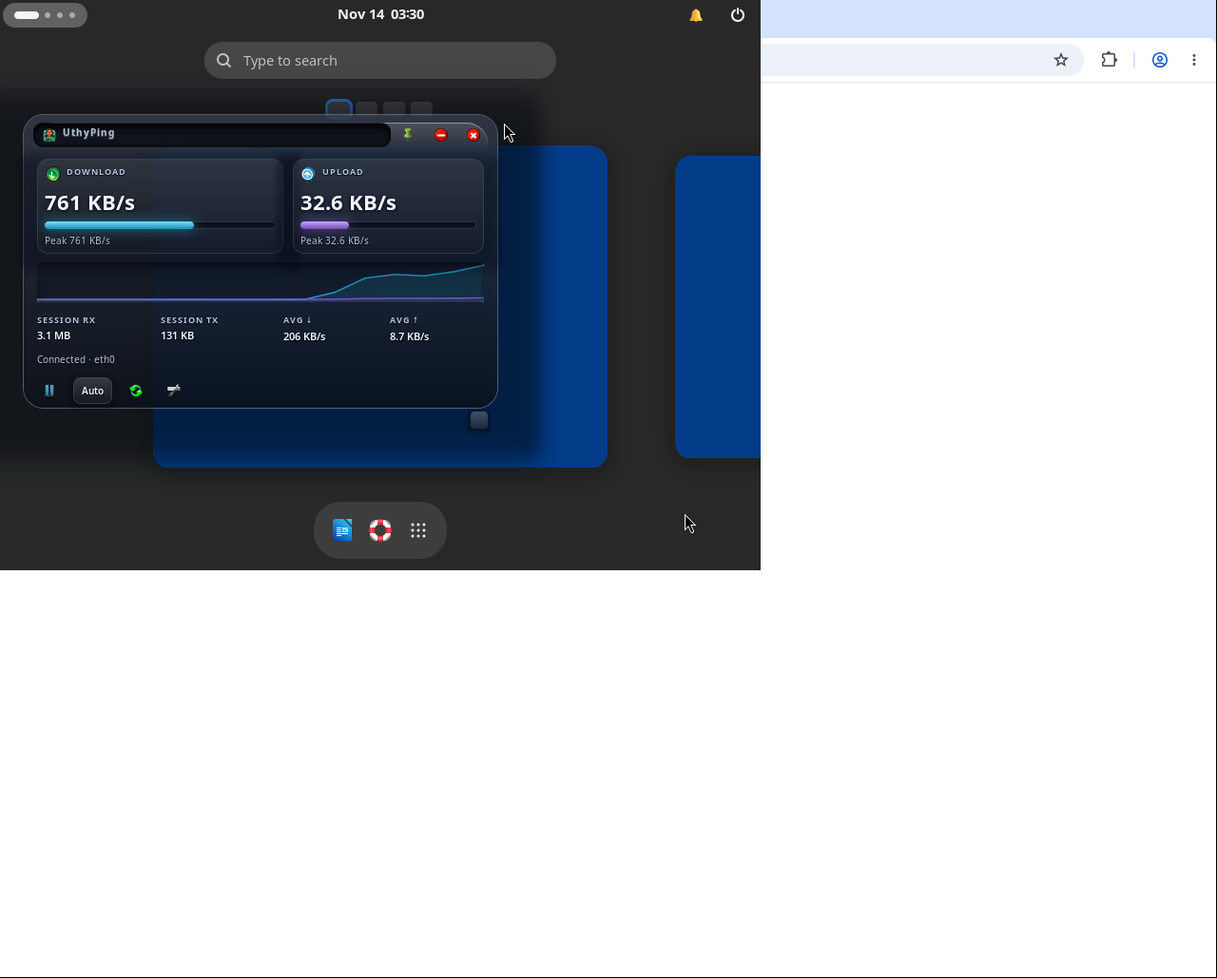
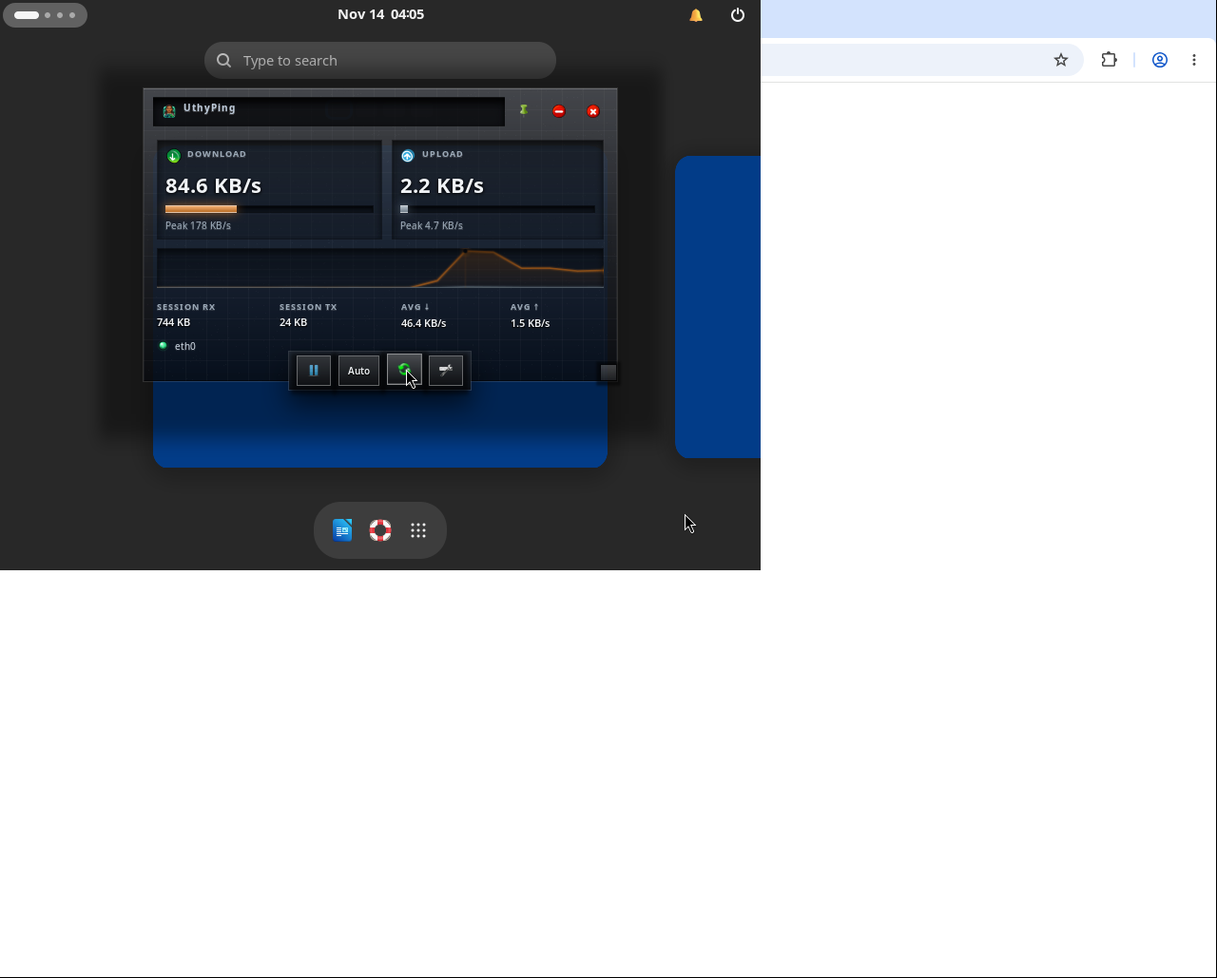
Document the square orange design and refresh the captures
Record the palette, the depth order, the layer stack, the one-shadow
discipline and the two St facts the redesign turned up: St has no backdrop
sampling at all, so the glass implies thickness instead of blurring anything,
and Cairo gradient stops in GJS are addColorStopRGBA rather than addColorStop.

The captures are refreshed from a nested GNOME Shell 46 session and now include
the floating tray at rest, hovered and pressed, the connection LED, the
preferences window, and the focus ring on the card, on a title-strip control and
on a tray plate. The measured contrast ratios and the reduced-motion result are
recorded in the accessibility notes.

Changed region(s): [[0.0, 0.0622, 0.5312, 0.4976]]

diff --git a/docs/UI_SPECIFICATION.md b/docs/UI_SPECIFICATION.md
@@ -2,87 +2,128 @@
 
 ## Visual direction
 
-A compact native GNOME Shell card in clear liquid glass with skeuomorphic depth: a dark translucent blue slab lit from the upper left, a fine cool rim, a sheen along the top edge, soft cast shadows, raised glass tiles, engraved grooves, and short spring motion. Cyan keeps the download identity and violet the upload identity. The theme is original and uses no copied assets.
+A square liquid-glass slab with skeuomorphic depth: a dark translucent surface lit from the upper left, a fine silver rim, a sheen along the top edge, a faint grid and grain inside the glass, recessed metric wells, engraved secondary labels, raised control plates and a floating tray that hovers below the slab. One glowing orange accent carries anything focused, active or measured; everything else is near-black, off-white and silver. Corners are square throughout — the radius is part of the material, not a setting — and the only round object in the interface is the connection LED, because a dot has to be a dot.
 
-The material model is adapted from the QuickLiquid liquid-glass description ([quickliquid.vercel.app](https://quickliquid.vercel.app/)): one physical definition of tint, sheen, rim light, refraction edge and spring motion, applied consistently to every surface. GNOME Shell's St toolkit has no DOM, WebGL or backdrop blur, so the model is expressed with what St actually renders — vertical gradients for tint and sheen, a light border for the refraction edge, inset shadows for embossing, and a cool rim highlight for the top specular.
+The material model is adapted from the QuickLiquid liquid-glass description ([quickliquid.vercel.app](https://quickliquid.vercel.app/)): one physical definition of tint, sheen, rim light, refraction edge and spring motion, applied consistently to every surface. GNOME Shell's St toolkit has no DOM, no WebGL and, in the 45–50 series, **no backdrop sampling**: there is no `backdrop-filter`, no `filter`, and no way for an actor to read or blur what is painted behind it. Thickness is therefore implied rather than performed — a dark tint, a vertical sheen, a grain layer, a 1 px bright rim and a wide cast shadow together read as a slab of glass, and the documentation says so rather than claiming a blur that never happens.
 
 Tokens:
 
 | Purpose | Default |
 |---|---|
-| Glass tint (base) | `rgb(18, 28, 46)` at the user's opacity |
-| Glass gradient | `rgb(51, 61, 76)` → `rgb(10, 16, 26)` derived from the tint |
-| Rim / refraction edge | `rgba(206, 228, 255, 0.34)` |
-| Sheen (title strip) | `rgba(255, 255, 255, 0.14)` → transparent |
-| Cast shadow | `rgba(3, 8, 18, 0.58)` at `0 18px 42px` |
-| Download | `#27C9FF` |
-| Upload | `#A56BFF` |
-| Primary text | `#F5F8FF` |
-| Secondary text | `#B7C5DA` |
-| Focus ring | `rgba(126, 226, 255, 0.95)` + `rgba(39, 201, 255, 0.55)` halo |
-| Warning/error | `#FFB454` / `#FF647C` |
+| Glass tint (base) | `rgb(14, 18, 26)` at the user's opacity |
+| Glass gradient | `rgb(63, 67, 73)` → `rgb(8, 10, 15)` derived from the tint |
+| Rim / refraction edge | `rgba(255, 255, 255, 0.12)` |
+| Specular rim (backdrop) | `rgba(255, 255, 255, 0.20)` top, `rgba(0, 0, 0, 0.45)` bottom |
+| Grid / grain | `rgba(255, 255, 255, 0.030)` at a 22 px pitch |
+| Cast shadow | `rgba(0, 0, 0, 0.40)` at `0 20px 40px` |
+| Accent (focus, active, metrics) | `#FF8A1F`, lit `#FFC078`, deep `#A94A05` |
+| Download | `#FF8A1F` |
+| Upload | `#93A6B8` |
+| Primary text | `#F2F5F8` |
+| Secondary text (engraved) | `#9DABB9` |
+| LED — connected | `#2FE08A` |
+| LED — initialising / paused | `#FFC24D` |
+| LED — disconnected / error | `#FF6B5A` |
+| LED — stopped | `#8A93A0` |
 
-## Material system
+## Depth order
 
-Depth is layered across the card, its title strip and every sub-surface, because St honours exactly one `box-shadow` per declaration and warns about the rest:
+The z-axis is explicit: the desktop, then the slab, then the wells pressed into it, then the tray hovering above it.
 
-| Surface | Its single shadow spends on | Depth cue |
+| Layer | Actor | What it carries |
 |---|---|---|
-| Card | Cast shadow | Lifts the slab off the desktop |
-| Title strip | Inset top highlight | The top edge catching the key light |
-| Gauge tile | Outer shadow | Raised glass tile over the card |
-| Meter groove | Inset shadow | Engraved channel |
-| Meter fill | Accent bloom | Liquid glow |
-| Graph window | Inset shadow | Engraved viewport |
-| Control bead | Outer shadow, inverted to inset when pressed | Beads press into the surface |
-| Statistics and controls rows | Inset top line | Hairline dividers |
+| 1. Desktop | — | Casts the slab's shadow |
+| 2. Slab | card (`Clutter.BinLayout`) | Tint, border, cast shadow, focus ring |
+| 3. Inner surface | `glassBackdrop.js` | Sheen, grid, grain, specular rim |
+| 4. Content | `uthy-card-stack` column | Title strip, readings, wells, chart |
+| 5. Grip and tray | anchored bottom layers | Resize grip, floating control tray |
 
-Inline styles win over the stylesheet in St, so the card's tint, radius, font size and keyboard focus ring are produced in `src/ui/glassMaterial.js`, and the title strip's sheen is applied there as well.
+St honours exactly one `box-shadow` per declaration and warns about the rest, so each surface spends its single shadow on the cue that matters most for it. Where a recess needs two inset cues — dark at the top left, lit at the bottom right — the second one is a border, not a shadow:
 
-Layout metrics — paddings, spacings, minimum sizes and font sizes — are unchanged from the previous stylesheet. Paddings are reduced by one pixel wherever a 1px rim border was added, so every control keeps its original footprint.
+| Surface | Its single shadow spends on | Second cue |
+|---|---|---|
+| Card | Cast shadow | 1 px silver rim, focus ring in orange |
+| Backdrop | — (Cairo) | Sheen, grid, grain, top and bottom rim lines |
+| Metric well | Inset dark press | Lit lower and right border |
+| Meter groove | Inset dark press | Lit lower border |
+| Meter fill | Accent bloom | Lit top border, dark bottom border |
+| Chart window | Inset dark press | Lit lower border, grid inside |
+| Control plate (rest) | Contact shadow | Lit top border, dark bottom border |
+| Control plate (pressed) | Inset dark press | Inverted borders |
+| Floating tray | Wide cast shadow | Lit top border, dark bottom border |
+
+Inline styles win over the stylesheet in St, so the card's tint, cast shadow and focus ring, the metric wells, the meter groove and fill, and the tray's slab are produced in `src/ui/glassMaterial.js`. The grid, the grain and the rim lights cannot be expressed in CSS at all — St has no repeating backgrounds — so they are painted by `src/ui/glassBackdrop.js` on a single `St.DrawingArea` that covers the card and repaints only when its size changes.
+
+## Typography
+
+Every numeric readout carries `font-feature-settings: "tnum"`, so a changing digit never reflows the label beside it: the mini rates, the gauge values and the statistic values all use tabular figures. Secondary labels — `DOWNLOAD`, `UPLOAD`, `SESSION RX`, `Peak` — are engraved: a dim `#9DABB9` with a single light `text-shadow` below the glyph, so they read as cut into the glass rather than printed on it.
 
 ## Iconography
 
-`icons/` holds the supplied skeuomorphic control set — brand, notification, pin, pinned pin, minimize, expand, close, pause, play, refresh, settings, share, download and upload — prepared by `scripts/prepare-icons.py` from the sources in `assets/icons-source/`. Every icon is a physical object with its own bevel, highlight and contact shadow, so nothing else draws depth for it: the control buttons have a transparent background, no border and no shadow, because a frame around a physical object only doubles every edge.
+`icons/` holds the supplied skeuomorphic control set — brand, notification, pin, pinned pin, minimize, expand, close, pause, play, refresh, settings, share, download and upload — prepared by `scripts/prepare-icons.py` from the sources in `assets/icons-source/`. Every icon is a physical object with its own bevel, highlight and contact shadow.
 
 Two of the sources (`Close.svg`, `minus.svg`) still carried the flat near-white plate and the hairline border of the bitmap they were traced from. The preparation script floods that plate away from the canvas border, drops any remaining component that spans the canvas while hugging its edge, trims each icon to its artwork, and scales every icon so the artwork fills the same share of its box. The shipped files are 96 px PNGs loaded through `Gio.FileIcon`, which renders them in St without theme dependencies; if an asset is missing the factory falls back to the matching symbolic icon from the user's theme.
 
-Two St behaviours shape the set. `St.Icon` defaults to symbolic style, which would flatten the artwork into a monochrome mask, so the bundled icons request `-st-icon-style: regular` while the theme fallback stays symbolic and is tinted by CSS colour. And St paints an outer `box-shadow` as a filled block when the actor has no background while ignoring an inset one, so the focus ring on a bare control is a 2 px border, reserved transparent in the resting state and coloured only on focus, which also keeps the control from resizing when it is focused.
+The title-strip buttons draw **no** frame: the icons are objects in their own right, so a plate around them would double every edge. The four tray controls are the opposite case — the design asks for physical buttons, so each one is a raised square plate with a silver rim and a contact shadow, and the icon sits on top of it. Two St behaviours shape the set. `St.Icon` defaults to symbolic style, which would flatten the artwork into a monochrome mask, so the bundled icons request `-st-icon-style: regular` while the theme fallback stays symbolic and is tinted by CSS colour. And St paints an outer `box-shadow` as a filled block when the actor has no background while ignoring an inset one, so the focus ring on a bare control is a 2 px border, reserved transparent in the resting state and coloured only on focus, which also keeps the control from resizing when it is focused.
 
 The download and upload marks are the bundled metric icons: 16 px in the mini rows and 18 px in the gauge headings. The statistics captions keep the typographic arrows (↓ ↑), which are embossed with `text-shadow`, and the widgets fall back to those arrows wherever the icon factory is not supplied.
 
 ## Title strip
 
-The name plate is the drag handle itself: a dark floor (`rgba(2, 5, 12, 0.72)`), one inset shadow (`inset 0 5px 10px`) for the press, a dark upper lip and a lit lower lip. The lettering is engraved — `rgba(180, 201, 226, 0.96)` with a light `text-shadow` under each glyph — so it reads as cut into the surface; the captured session measures 10.4:1 between the glyphs and the floor. The tool name is **UthyPing**; the extension UUID stays `uthy-speed-glass@uthy` so existing installations and saved settings keep working.
+The name plate is the drag handle itself: a dark floor (`rgba(3, 5, 9, 0.74)`), one inset shadow (`inset 0 5px 10px`) for the press, a dark upper lip and a lit lower lip, all square. The lettering is engraved — `rgba(198, 212, 228, 0.96)` with a light `text-shadow` under each glyph — so it reads as cut into the surface; the captured session measures 11.5:1 between the glyphs and the floor. The tool name is **UthyPing**; the extension UUID stays `uthy-speed-glass@uthy` so existing installations and saved settings keep working.
 
 ## Mini
 
 ```text
 ┌────────────────────────────────────────┐
 │ ◈ UthyPing            pin  ▾  ×        │
-│ ↓  -- MB/s             ↑  -- MB/s       │
-│   DOWNLOAD               UPLOAD          │
-│ ▂▄▆█▇▅▃             ▂▃▅█▆▄▂             │
-│ Initializing · interface                 │
+│ ◉ 174 KB/s             ◉ 7.1 KB/s      │
+│   DOWNLOAD               UPLOAD         │
+│ ▁▂▄▆█▇▅▃ live chart, orange over silver │
+│ ● eth0                                  │
 └────────────────────────────────────────┘
 ```
 
-Both rates remain visible simultaneously. Graphs are optional and the connection line only reports observed status/interface values. The title strip is the move handle. Compact mode keeps the same information with more room for history.
+Both rates remain visible simultaneously. Graphs are optional. The connection line is one glowing LED beside the interface name: the state is carried by the LED colour (and by the accessible name), not by a sentence, so the line stays short at every width. The title strip is the move handle. Compact mode keeps the same information with more room for history.
 
 ## Expanded
 
 ```text
 ┌──────────────────────────────────────────────────────────┐
 │ ◈ UthyPing               pin  minimize  ▾  ×              │
-│ DOWNLOAD                               UPLOAD              │
-│ ↓  -- MB/s                              ↑  -- MB/s         │
-│ ━━━━━━━━━━━━━━━                         ━━━━━━━━━━━━━━━    │
-│ ───── cyan history / violet history ────────────────────   │
-│ SESSION RX  —  SESSION TX  —  AVG ↓ —  AVG ↑ —            │
-│ Connected · interface · Ping (only when available)         │
-│ Pause   Interface   Reset statistics   Preferences          │
-└──────────────────────────────────────────────────────────┘
+│ ┌─ recessed well ────────┐ ┌─ recessed well ───────────┐ │
+│ │ ◉ DOWNLOAD             │ │ ◉ UPLOAD                  │ │
+│ │ 122 KB/s               │ │ 5.0 KB/s                  │ │
+│ │ ▓▓▓▓▓▓▓▓░░░ groove     │ │ ▓░░░░░░░░░░ groove        │ │
+│ │ Peak 123 KB/s          │ │ Peak 5.0 KB/s             │ │
+│ └────────────────────────┘ └───────────────────────────┘ │
+│ ┌─ engraved chart window ─────────────────────────────┐  │
+│ │ grid + orange area + silver area + peak + live head │  │
+│ └─────────────────────────────────────────────────────┘  │
+│ SESSION RX  —   SESSION TX  —   AVG ↓ —   AVG ↑ —        │
+│ ● eth0                                                   │
+│        ╔═════════════════════════════════════╗           │
+│        ║ ⏸   Auto   ⟳   ⚙                   ║ ← floats   │
+└────────╚═════════════════════════════════════╝───────────┘
 ```
+
+The four controls left the column: they sit on a separate slab that hovers ten pixels below the panel's bottom edge, with a wide cast shadow, so the stack reads as desktop → panel → controls. The column reserves their strip so nothing is hidden behind them.
+
+## Live chart
+
+The chart is a dual-layer area sparkline drawn in Cairo (`src/ui/historyGraph.js`), not a flat line:
+
+- a faint light-grey grid and an engraved baseline give the plot a surface;
+- each wave is filled with a vertical gradient that fades downward, so download and upload overlap without muddying;
+- each wave is stroked twice — a 4 px translucent glow under a 1.6 px lit line;
+- the tallest download sample is marked with a halo, a leader line and a bright dot;
+- the newest sample carries a glowing live head on the right edge.
+
+With no samples yet the grid alone is drawn, which reads as an empty instrument rather than a broken line. A 0.01 MB/s floor keeps a slow link's trace visible where a 0.1 MB/s floor flattened it.
+
+## Connection LED
+
+The connection state is a single 3D dot (`src/ui/ledIndicator.js`): an outer bloom, a dome lit from the upper left, an inner shadow along its lower edge, a specular highlight and a dark contact ring. The colour carries the state; the accessible name repeats it in words. The dome is redrawn only when the state changes, and it pulses once on a change unless reduced motion is on.
 
 ## Motion
 
@@ -90,34 +131,38 @@ Motion lives in `src/ui/motion.js` and only ever animates transform, opacity or 
 
 | Gesture | Behaviour | Duration |
 |---|---|---|
-| Press | Squash to 0.94 | 110 ms, ease-out cubic |
-| Release | Overshoot back to rest | 240 ms, ease-out back |
-| Hover | Lift to 1.06 | 150 ms, ease-out cubic |
+| Bare icon: press | Squash to 0.94 | 110 ms, ease-out cubic |
+| Bare icon: release | Overshoot back to rest | 240 ms, ease-out back |
+| Bare icon: hover | Lift to 1.06 | 150 ms, ease-out cubic |
+| Raised control: hover | Travel to −2 px and grow to 1.02 | 150 ms, ease-out cubic |
+| Raised control: press | Travel to +1 px and squash to 0.97 | 110 ms, ease-out cubic |
+| Raised control: release | Settle to 0 px with overshoot | 240 ms, ease-out back |
 | Meter update | Spring to the new fill width | 220 ms |
 | Fresh reading | Single 1.03 pulse | 180 ms, ease-out back |
+| LED state change | Single 1.18 pulse | 200 ms |
 | Brand mark | Looping opacity and scale breathing | 2600 ms, auto-reversed |
 
-Breathing is implemented with looping `Clutter.PropertyTransition`s and stops when the card is hidden. With the Reduce motion preference enabled, every duration collapses, idle loops stop, and values change instantly.
+Breathing is implemented with looping `Clutter.PropertyTransition`s and stops when the card is hidden. With the Reduce motion preference enabled, every duration collapses, idle loops stop, and values change instantly — verified by measuring the icon's position while hovering, which moves 1.71 px with motion on and 0.00 px with it off.
 
 ## Interaction model
 
-- **Expand:** reveals gauges, graph, statistics, interface cycling, pause/resume, reset, and preferences.
+- **Expand:** reveals gauges, chart, statistics, interface cycling, pause/resume, reset, and preferences.
 - **Minimize:** returns to the mini card while retaining both readings; it does not stop sampling.
 - **Close:** hides the card but leaves the panel indicator and monitoring service available; the panel menu can show it again.
 - **Pin:** locks title-strip movement; it does not stop monitoring or disable resize.
-- **Move:** drag the title strip; position is clamped to a monitor and persisted on release.
-- **Resize:** drag the bottom-right affordance; logical width/height are clamped and persisted.
+- **Move:** drag the title strip; position is clamped to a monitor — with a bottom inset for the tray's overhang — and persisted on release.
+- **Resize:** drag the bottom-right grip; logical width/height are clamped and persisted.
 - **Pause/resume:** removes/restarts the sampling timer; resume establishes a fresh baseline.
-- **Interface:** expanded button cycles through automatic and currently observed interfaces; preferences provide direct selection.
+- **Interface:** the tray's labelled button cycles through automatic and currently observed interfaces; preferences provide direct selection.
 - **Reset:** clears session totals, peaks, averages, and visible history without resetting kernel counters.
-- **Ping:** preference enables a local default-gateway measurement; ping remains absent from the status line unless a result exists.
+- **Ping:** preference enables a local default-gateway measurement; ping appears in the status line only when a result exists.
 
 ## Accessibility and responsive behavior
 
-Buttons have accessible names, are keyboard focusable, and receive a visible cyan focus ring drawn outside the border box, so focusing never shifts layout. Text is embossed with a subtle shadow to stay high contrast over both the light and dark parts of the glass, and contrast ratios of the primary and secondary text against the darkest and lightest glass tones were checked. The meters label direction and value in text, not colour alone. Reduced-motion removes interpolation transitions. Geometry is expressed in logical pixels, bounded by the selected monitor, and re-clamped when monitors change.
+Buttons have accessible names, are keyboard focusable, and receive a visible **orange** focus ring. The card's ring is drawn outside the border box by the material, so focusing never shifts layout; the bare controls use a reserved transparent border that is coloured on focus; the raised plates turn their rim orange. The LED, the rates and the status row all carry accessible names, and the meters label direction and value in text rather than by colour alone. Measured in the captured session: metric value 13.2:1, `Peak` label 6.7:1, status text 9.9:1, statistic value 16.2:1, the orange meter against its groove 10.4:1, the engraved name plate 11.5:1 — all above the 4.5:1 small-text and 3:1 non-text thresholds. Reduced motion removes every interpolation. Geometry is expressed in logical pixels, bounded by the selected monitor, and re-clamped when monitors change.
 
 ## Verification status
 
-Captured from a nested GNOME Shell 46 session with the extension enabled: mini, compact and expanded layouts, a hovered control, and the icon set at its true 16 px render size. The nested run reported no `St-WARNING`, no JavaScript error and no CSS parse warning, which also confirms the one-shadow-per-declaration discipline.
+Captured from a nested GNOME Shell 46 session with the extension enabled: mini, compact and expanded layouts, the floating tray at rest, hovered and pressed, the connection LED, the title strip, and the focus ring on the card, on a title-strip control and on a tray control. The nested run reported no `St-WARNING`, no JavaScript error and no CSS parse warning, which also confirms the one-shadow-per-declaration discipline.
 
 Still **NOT TESTED**: Zorin OS 18.1 on real hardware, fractional scaling, high-contrast and light Shell themes, keyboard traversal order on a physical session, and multi-monitor behaviour.

diff --git a/screenshots/README.md b/screenshots/README.md
@@ -4,19 +4,22 @@ Captured from a nested GNOME Shell 46 session (`gnome-shell --nested --wayland`)
 
 | File | Content |
 |---|---|
+| `uthy-glass-expanded.png` | Expanded layout: recessed metric wells, the live chart, the statistics row, the LED and the floating control tray |
+| `uthy-glass-hover.png` | The same layout with a tray control under the pointer |
 | `uthy-glass-mini.png` | Mini layout on the desktop |
-| `uthy-glass-compact.png` | Compact layout with the history graph |
-| `uthy-glass-expanded.png` | Expanded layout with gauges, graph, statistics and controls |
-| `uthy-glass-hover.png` | Expanded layout with a control under the pointer |
-| `zoom-mini.png`, `zoom-expanded.png` | Enlarged crops for reviewing the material |
-| `zoom-title-strip.png` | The `UthyPing` name plate: recessed floor, inset press, dark upper lip, lit lower lip and engraved lettering |
-| `zoom-controls-expanded.png`, `zoom-controls-hover.png` | Resting and hovered control row; the icons carry their own depth and their buttons draw no frame, so hover is a soft wash |
+| `uthy-glass-compact.png` | Compact layout with the taller chart |
+| `zoom-expanded.png` | Enlarged crop of the expanded card for reviewing the material |
+| `zoom-mini.png` | Enlarged crop of the mini card |
+| `zoom-title-strip.png` | The `UthyPing` name plate: square recess, inset press, dark upper lip, lit lower lip and engraved lettering |
+| `zoom-tray-expanded.png`, `zoom-tray-hover.png`, `zoom-tray-pressed.png` | A tray control at rest, lifted two pixels on hover, and pressed into its own inset shadow |
+| `zoom-led.png` | The connection LED: bloom, lit dome, inner shadow, specular highlight and contact ring |
+| `preferences.png` | The GTK4 preferences window: the same square, silver-and-orange material, and no corner-radius row any more |
 | `panel-indicator.png` | The bundled mark in the panel indicator |
 | `icon-set-3d.png` | The prepared icon set at 96 px, the size the sources are rendered at before they are trimmed |
 | `icon-set-16px.png` | The same set at its true 16 px render size, which is the size that matters for legibility |
-| `speed-slow-link.png` | A link throttled to 25 KB/s: the readout shows `B/s` and `KB/s` values and the graph keeps its trace, where a MB/s-only readout showed `0.0 MB/s` and a flat line |
-| `a11y-focus-card.png` | Focus ring around the card after pressing it |
-| `a11y-focus-control.png`, `a11y-focus-control-2.png` | The ring moving between controls on Tab |
+| `speed-slow-link.png` | A link throttled to 25 KB/s: the readout shows `B/s` and `KB/s` values and the chart keeps its trace, where a MB/s-only readout showed `0.0 MB/s` and a flat line |
+| `a11y-focus-card.png` | Orange focus ring around the card after pressing it |
+| `a11y-focus-control.png`, `a11y-focus-control-2.png` | The ring moving between controls on Tab: a title-strip icon, then a tray plate |
 | `a11y-focus-released.png` | No ring left after Escape |
 
-The nested session reported no `St-WARNING`, no JavaScript error and no CSS parse warning. Contrast ratios, the focus-ring measurements and the reduced-motion results measured in these sessions are recorded in [docs/ACCESSIBILITY.md](../docs/ACCESSIBILITY.md), and the icon preparation rules in [docs/DEVELOPMENT.md](../docs/DEVELOPMENT.md). These captures are a verification aid, not a substitute for checking a physical Zorin OS 18.1 session: fractional scaling, high-contrast and light Shell themes, and multi-monitor behaviour remain untested.
+The nested session reported no `St-WARNING`, no JavaScript error and no CSS parse warning. Contrast ratios, the focus-ring measurements, the reduced-motion result and the icon preparation rules measured in these sessions are recorded in [docs/ACCESSIBILITY.md](../docs/ACCESSIBILITY.md), [docs/UI_SPECIFICATION.md](../docs/UI_SPECIFICATION.md) and [docs/DEVELOPMENT.md](../docs/DEVELOPMENT.md). These captures are a verification aid, not a substitute for checking a physical Zorin OS 18.1 session: fractional scaling, high-contrast and light Shell themes, and multi-monitor behaviour remain untested.

diff --git a/CHANGELOG.md b/CHANGELOG.md
@@ -2,6 +2,16 @@
 
 ## Unreleased
 
+- Rebuilt the surface as a square liquid-glass slab over a skeuomorphic body. Corners are square everywhere — the corner-radius setting is gone — and the palette is one glowing orange accent (`#FF8A1F`) for anything focused, active or measured, over near-blacks, off-whites and silver rims.
+- Added `src/ui/glassBackdrop.js`: a single DrawingArea paints the layers St cannot express in CSS — a top sheen, a 22 px light-grey grid, a deterministic grain at 0.03 opacity, and the bright top / dark bottom rim lights. It repaints only when the card is resized.
+- Added `src/ui/ledIndicator.js`: the connection state is now a 3D emerald LED beside the interface name instead of a sentence, with an outer bloom, a lit dome, an inner shadow, a specular highlight and a dark contact ring. The colour carries the state; the accessible name repeats it in words.
+- Rebuilt the history chart as a live dual-layer area sparkline: a faint grid, gradient fills that fade downward, a glow under each lit line, a haloed peak marker with a leader line, and a glowing live head on the newest sample. With no samples yet the grid alone is drawn.
+- Made the metric cards recessed glass wells — an inset dark press plus a lit lower and right border, because St only honours one shadow per declaration — and turned the meter tracks into square grooves with a bevelled, glowing fill that casts a small shadow onto the groove.
+- Turned the four expanded controls into a floating tray that hovers ten pixels below the panel's bottom edge with a wide cast shadow, so the stack reads as desktop, panel, controls. Move clamping keeps a bottom inset so the tray stays on screen.
+- Made the tray controls physical buttons: raised at rest, travelling two pixels towards the pointer on hover, and pressing one pixel into their own inset shadow when active. The title-strip icons stay frameless.
+- Added `font-feature-settings: "tnum"` to every numeric readout so a changing digit never reflows the label beside it, and engraved the secondary labels with a light edge below the glyph.
+- Applied the same material to the preferences window: square corners, an orange accent, and sliders whose trough is a groove and whose thumb is a lit, bevelled handle.
+- Moved the download accent to `#FF8A1F` and the upload accent to `#93A6B8` so both metrics sit inside the new palette; existing installations keep the colours they already saved.
 - Replaced the whole icon set with the supplied skeuomorphic 3D artwork. `scripts/prepare-icons.py` renders each source, floods away the flat plate and hairline frame that two of them still carried, trims each icon to its artwork and writes a 96 px PNG, so no icon is drawn inside a frame any more.
 - Renamed the tool to **UthyPing** and gave the name a deeply pressed-in neumorphic plate: a dark recess with an inset shadow, a dark upper lip and a lit lower lip, and engraved lettering that measures 10.4:1 against the floor. The extension UUID is unchanged, so existing installs and settings keep working.
 - Removed the plate, border and shadow from the icon buttons. The supplied icons are physical objects with their own bevel and contact shadow, so a frame around them only doubled every edge; hover is now a soft wash and the press squash comes from the motion helper.

diff --git a/docs/ACCESSIBILITY.md b/docs/ACCESSIBILITY.md
@@ -41,6 +41,21 @@ the icon or disappeared. Re-measured after the icon change, counting ring
 coloured pixels inside the card: 509 at rest (the metric icons themselves), 750
 with the first control focused, then 729 and 719 as focus moved on.
 
+### The square orange design
+
+The focus ring is now the accent colour, `#FF8A1F`, on every stop: a two-pixel
+ring around the slab when the card holds focus, a reserved border coloured on
+the title-strip controls, and an orange rim on a focused tray plate. Re-measured
+in the redesigned session, counting ring-coloured pixels: 0 at rest, a ring
+around the card after a press, a ring on the first title-strip control after
+Tab, a ring on a tray plate four Tabs later, and 0 again after Escape. The ring
+still costs no layout on any stop.
+
+The tray plates are the one control that is *not* transparent, so their ring is
+a rim colour change rather than a reserved border; the resting rim is silver and
+the focused rim is the accent, which keeps the ring visible against both the
+plate and the tray.
+
 ## Contrast
 
 Contrast was measured on rendered pixels: the surface behind each text element
@@ -70,6 +85,25 @@ measured 4.16:1 at the minimum transparency. The strip now carries a dark base
 under the sheen, which holds it at 7.99:1 in the same conditions. No other text
 element failed in any tested condition.
 
+### The square orange palette
+
+Re-measured after the redesign, sampling the rendered pixels of the expanded
+card (accent `#FF8A1F`, wells, engraved labels and the emerald LED):
+
+| Element | Ratio |
+| --- | --- |
+| Metric value (`#F2F5F8`) on the recessed well | 13.2:1 |
+| Engraved `Peak` label (`#9DABB9`) on the well | 6.7:1 |
+| Status text (`#CBD5E0`) on the slab | 9.9:1 |
+| Statistic value (`#F2F5F8`) on the slab | 16.2:1 |
+| Orange meter fill against its groove | 10.4:1 |
+| Engraved name plate lettering on the recessed floor | 11.5:1 |
+
+All are above the 4.5:1 small-text threshold, and the meter and the LED are
+above the 3:1 non-text threshold. The engraved labels are deliberately the
+lowest of the set: they are secondary text at 9–10 px, and they still clear the
+threshold with room to spare.
+
 ### A layering constraint worth keeping
 
 The card paints its tint twice: once as `background-color` and again as the
@@ -96,6 +130,19 @@ preference while the widget was running:
 
 Turning the preference on while the widget runs also stops the idle breathing
 immediately, and turning it off restarts it.
+
+The redesigned controls add one more animation to that set: a raised tray plate
+travels two pixels towards the pointer on hover and one pixel down when pressed.
+Measured on rendered pixels by tracking the centre of the green refresh icon in
+both modes:
+
+| Preference | Icon centre, rest → hover | Shift |
+| --- | --- | --- |
+| Reduce motion off | 29.52 px → 27.81 px | −1.71 px, and the icon grows |
+| Reduce motion on | 29.52 px → 29.52 px | 0.00 px, identical pixels |
+
+So the reduced-motion mode suppresses the travel and the scale entirely while
+the hover wash and every other cue stay visible.
 
 ## What is not covered
 

diff --git a/docs/DEVELOPMENT.md b/docs/DEVELOPMENT.md
@@ -70,10 +70,13 @@ done
 
 St renders the PNGs through `Gio.FileIcon`. If an asset is missing at run time the icon factory falls back to the matching symbolic icon from the user's theme, so a partial install still shows a usable toolbar.
 
-Three St behaviours were established by rendering inside a nested Shell and must be respected by any new icon or control:
+Five St behaviours were established by rendering inside a nested Shell and must be respected by any new icon, surface or control:
 
 1. **St.Icon defaults to symbolic style**, which flattens an icon into a monochrome mask and discards the artwork. The `uthy-3d-icon` class sets `-st-icon-style: regular` so the supplied assets keep their depth; the symbolic fallback deliberately keeps the default so the theme icon is tinted by the CSS colour.
-2. **An outer box-shadow is painted as a filled block behind an actor with no background, and an inset box-shadow is not painted at all.** The icon buttons are transparent by design, so their focus ring is a 2 px border that is reserved transparent in the resting state and only coloured on focus. Anything that needs a visible ring on a transparent actor must use a border.
+2. **An outer box-shadow is painted as a filled block behind an actor with no background, and an inset box-shadow is not painted at all.** The title-strip buttons are transparent by design, so their focus ring is a 2 px border that is reserved transparent in the resting state and only coloured on focus. Anything that needs a visible ring on a transparent actor must use a border.
+3. **There is no backdrop sampling.** St 14 (GNOME Shell 46) has no `backdrop-filter`, no `filter` and no way for an actor to read what is painted behind it, so a glass slab cannot actually blur the desktop. Thickness is implied by a tint, a sheen, a grain layer and a bright 1 px rim instead; do not write CSS that claims a blur. Cairo is available to a `St.DrawingArea` through `import cairo from 'gi://cairo'`, but GJS exposes gradient stops as `addColorStopRGBA(offset, r, g, b, a)` — plain `addColorStop` does not exist.
+4. **`Clutter.BinLayout` fills a child that expands and centres one that does not**, and it has no alignment properties of its own (`x_align`/`y_align` on the layout raise "No property" errors). To pin a child to the bottom edge, fill the layer with an expanding column and let a `y_expand` spacer push the child down.
+5. **`font-feature-settings` is supported**, so tabular figures (`"tnum"`) can be requested for numeric readouts; `transform`, `filter` and repeating backgrounds are not, which is why the grid and the grain are painted in Cairo rather than declared in CSS.
 3. **The artwork must not be drawn inside a frame.** The supplied icons are complete objects; giving their buttons a plate, border or shadow doubles every edge. Keep the control material transparent and let the icon carry the depth.
 
 ## Install locally

diff --git a/README.md b/README.md
@@ -13,8 +13,11 @@ A native GNOME Shell extension for a floating, translucent network monitor. It r
 - NetworkManager D-Bus active-connection selection with route and sysfs fallbacks; automatic or manually selected Ethernet, Wi-Fi, USB-tethered, and visible virtual interfaces.
 - Session averages, peaks, and RX/TX totals.
 - Optional ping to the local IPv4 default gateway every ten seconds; off by default and no ping target is contacted while disabled.
-- GTK4/Libadwaita preferences for transparency, colors, text size, radius, graph height, sampling interval, reduced motion, and interface selection.
+- GTK4/Libadwaita preferences for transparency, colors, text size, graph height, sampling interval, reduced motion, and interface selection.
 - Supplied skeuomorphic 3D icon set on every control and metric mark, prepared by `scripts/prepare-icons.py` and drawn without frames, so each icon stays a physical object on the glass.
+- Square liquid-glass slab with a faint grid, a grain layer and silver rim lights, a floating control tray that hovers below the panel, and one glowing orange accent for anything focused, active or measured.
+- Live dual-layer area chart: gradient fills, a glow under each lit line, a haloed peak marker and a glowing live head on the newest sample.
+- 3D emerald connection LED beside the interface name, with tabular figures on every numeric readout so a changing digit never reflows its label.
 - Engraved **UthyPing** name plate: a deep inset recess in the title strip with the lettering cut into the surface.
 - Per-user installation, safe removal, local automated tests, schema validation, packaging, and GitHub Actions workflows.
 
@@ -68,7 +71,7 @@ Rates are decimal: `1 KB/s` is 1000 bytes per second and `1 MB/s` is 1,000,000. 
 ## Preferences
 
 - **Sampling:** 500, 1000, or 2000 ms; automatic or a currently visible interface; mini, compact, or expanded default layout.
-- **Appearance:** surface opacity, download/upload hex colors, font size, corner radius, graph height, and graph visibility.
+- **Appearance:** surface opacity, download/upload hex colors, font size, graph height, and graph visibility. Corners are square by design and are no longer a setting.
 - **Behavior:** remember geometry, reduce motion, and optional local-gateway ping.
 
 Move the widget from its title strip and resize it from the lower-right handle. Pinning locks movement but does not stop sampling. Reset session statistics from the expanded controls or panel menu.

diff --git a/docs/ARCHITECTURE.md b/docs/ARCHITECTURE.md
@@ -68,9 +68,14 @@ The workflow is defined in `.github/workflows/validate.yml` and runs validation 
 - `src/network/pingMonitor.js`: optional local gateway ping via `Gio.Subprocess`, with a numeric-address argument, a timeout, and no shell.
 - `src/network/networkMonitor.js`: one refresh timeout, recovery states, bounded history (120 entries), optional ping scheduling, and service teardown.
 - `src/settings/settingsManager.js`: validates values read by the UI and bounds values written by geometry changes.
-- `src/ui/widgetController.js`: presentation states, panel/widget actions, mode composition, styling, and geometry.
-- `src/ui/miniWidget.js`, `expandedWidget.js`, `speedGauge.js`, `historyGraph.js`: rendering and presentation updates.
-- `src/ui/dragController.js`: pointer movement/resizing, geometry persistence, and monitor clamping.
+- `src/ui/widgetController.js`: presentation states, panel/widget actions, mode composition, styling, geometry, and the card's layer stack (backdrop, content column, resize grip, floating tray).
+- `src/ui/glassMaterial.js`: the material vocabulary — palette, tints, wells, grooves, plate and tray styles, the card's tint and focus ring, and the shared motion durations. Every inline style the widget sets comes from here.
+- `src/ui/glassBackdrop.js`: one `St.DrawingArea` painting the layers CSS cannot express — sheen, grid, deterministic grain and the specular rim lights — repainting only when the card is resized.
+- `src/ui/ledIndicator.js`: the 3D connection LED and the shared status line (LED plus interface name) used by the mini and expanded layouts.
+- `src/ui/iconFactory.js`: bundled PNG icons with a symbolic theme fallback, and the press/hover motion wiring for bare and raised controls.
+- `src/ui/miniWidget.js`, `expandedWidget.js`, `speedGauge.js`, `historyGraph.js`: rendering and presentation updates; the chart is a dual-layer Cairo area sparkline.
+- `src/ui/motion.js`: transform-only spring vocabulary (squash, overshoot, lift, raise, press-in, meter width, pulses, idle breathing) with a zero-duration reduced-motion mode.
+- `src/ui/dragController.js`: pointer movement/resizing, geometry persistence, and monitor clamping (with a bottom inset for the floating tray).
 - `prefs.js`: GTK4/Libadwaita control panel; settings synchronize through GSettings in a separate process.
 
 ## Measurement and data dependency
